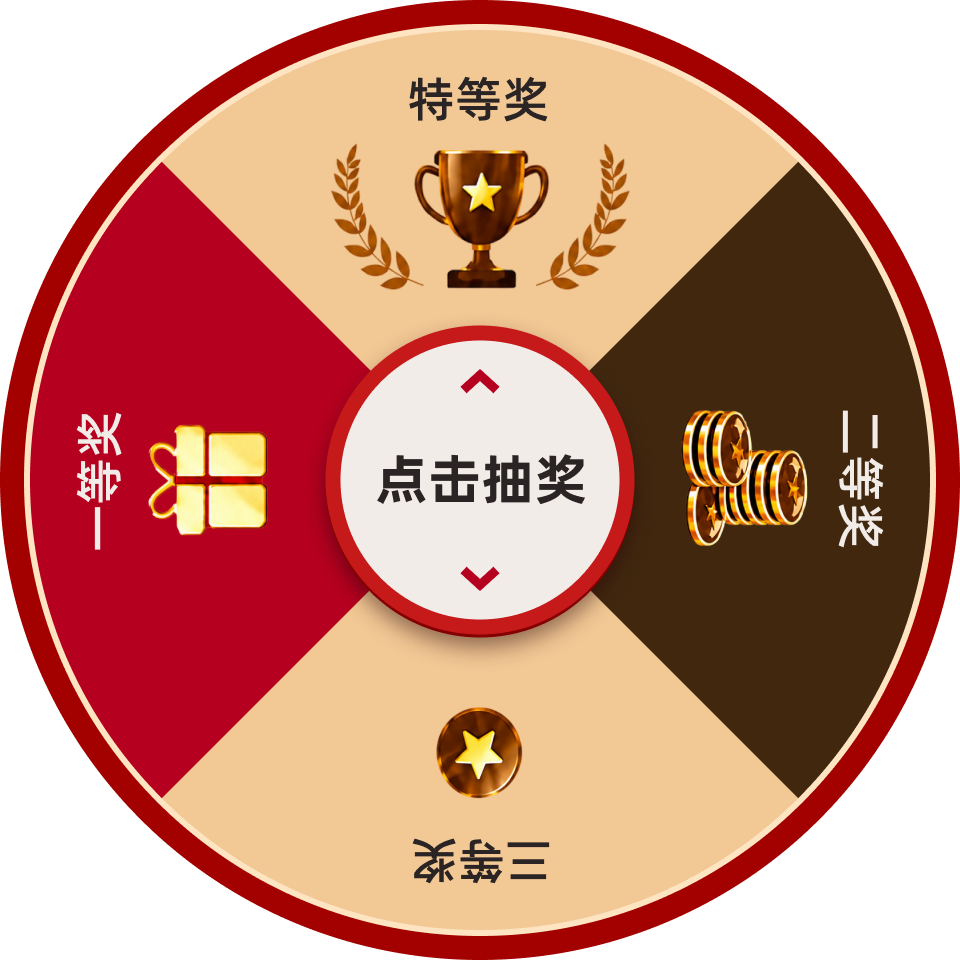
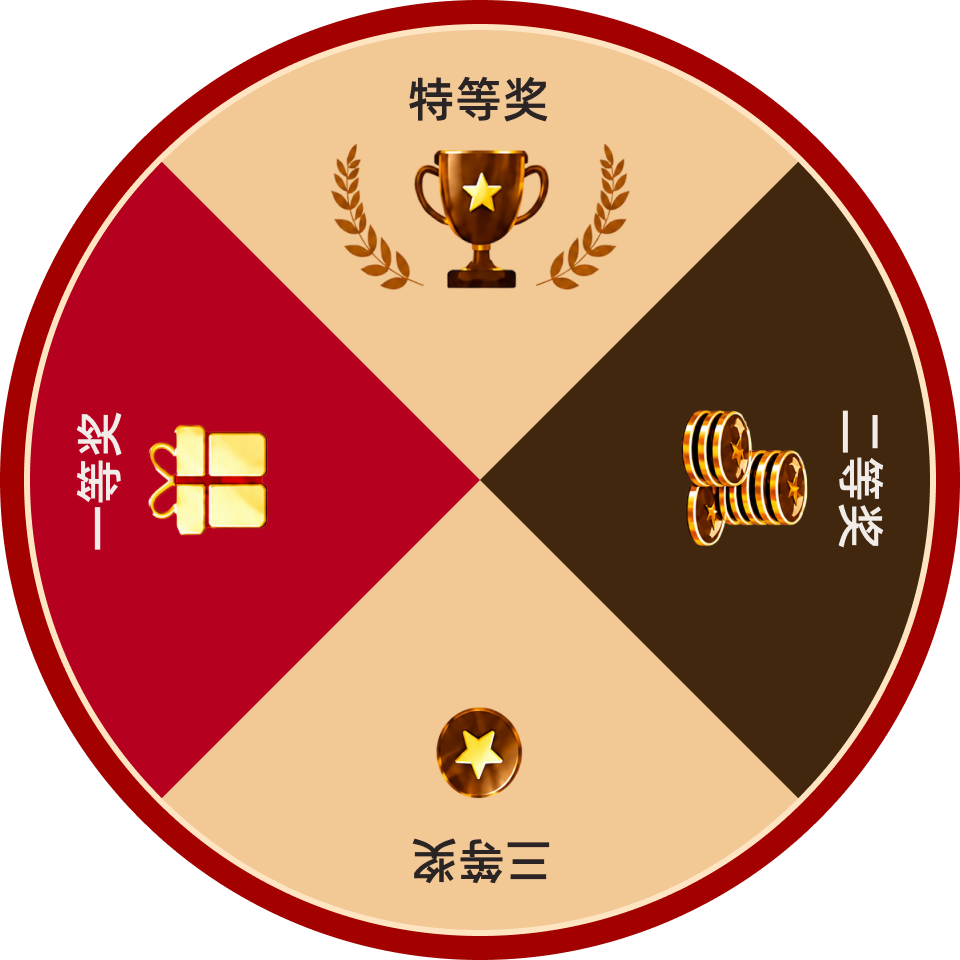
Fix duplicate lottery center

Changed region(s): [[0.3125, 0.3125, 0.6875, 0.6875]]

diff --git a/apps/h5/src/App.tsx b/apps/h5/src/App.tsx
@@ -810,7 +810,7 @@ function LotteryScreen({
           style={{ "--wheel-rotation": `${rotation}deg` } as CSSProperties}
           aria-hidden="true"
         >
-          <img src={`/assets/figma/figma-lottery-wheel.png?v=${UPDATED_ASSET_VERSION}`} alt="" />
+          <img src={`/assets/figma/figma-lottery-wheel.png?v=${UPDATED_ASSET_VERSION}-centerfix1`} alt="" />
         </div>
         <div className="figma-lottery-pointer" aria-hidden="true" />
         <button className="figma-lottery-draw-hit" disabled={isDrawing} type="button" onClick={onDraw}>